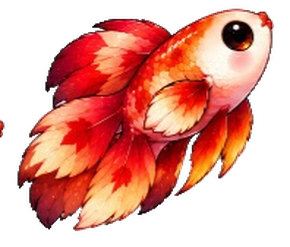
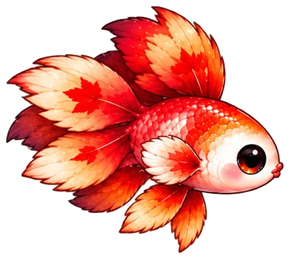
Female Maple Betta: new user art matching male style (eat frame kept)

diff --git a/public/js/data.js b/public/js/data.js
@@ -84,7 +84,7 @@ const DATA = {
 
 /** Frame roles: 0 idle, 1-4 swim, 5 eat (only while eating), 6 sleep, 7 rear/turn */
 // Bump SPRITE_V whenever shipped art changes so phones don't keep stale cached PNGs.
-const SPRITE_V = 27;
+const SPRITE_V = 28;
 // Species with a custom hybrid egg icon (assets/eggs/<species_id>.png).
 const EGG_V = 1;
 const EGG_ART = {
